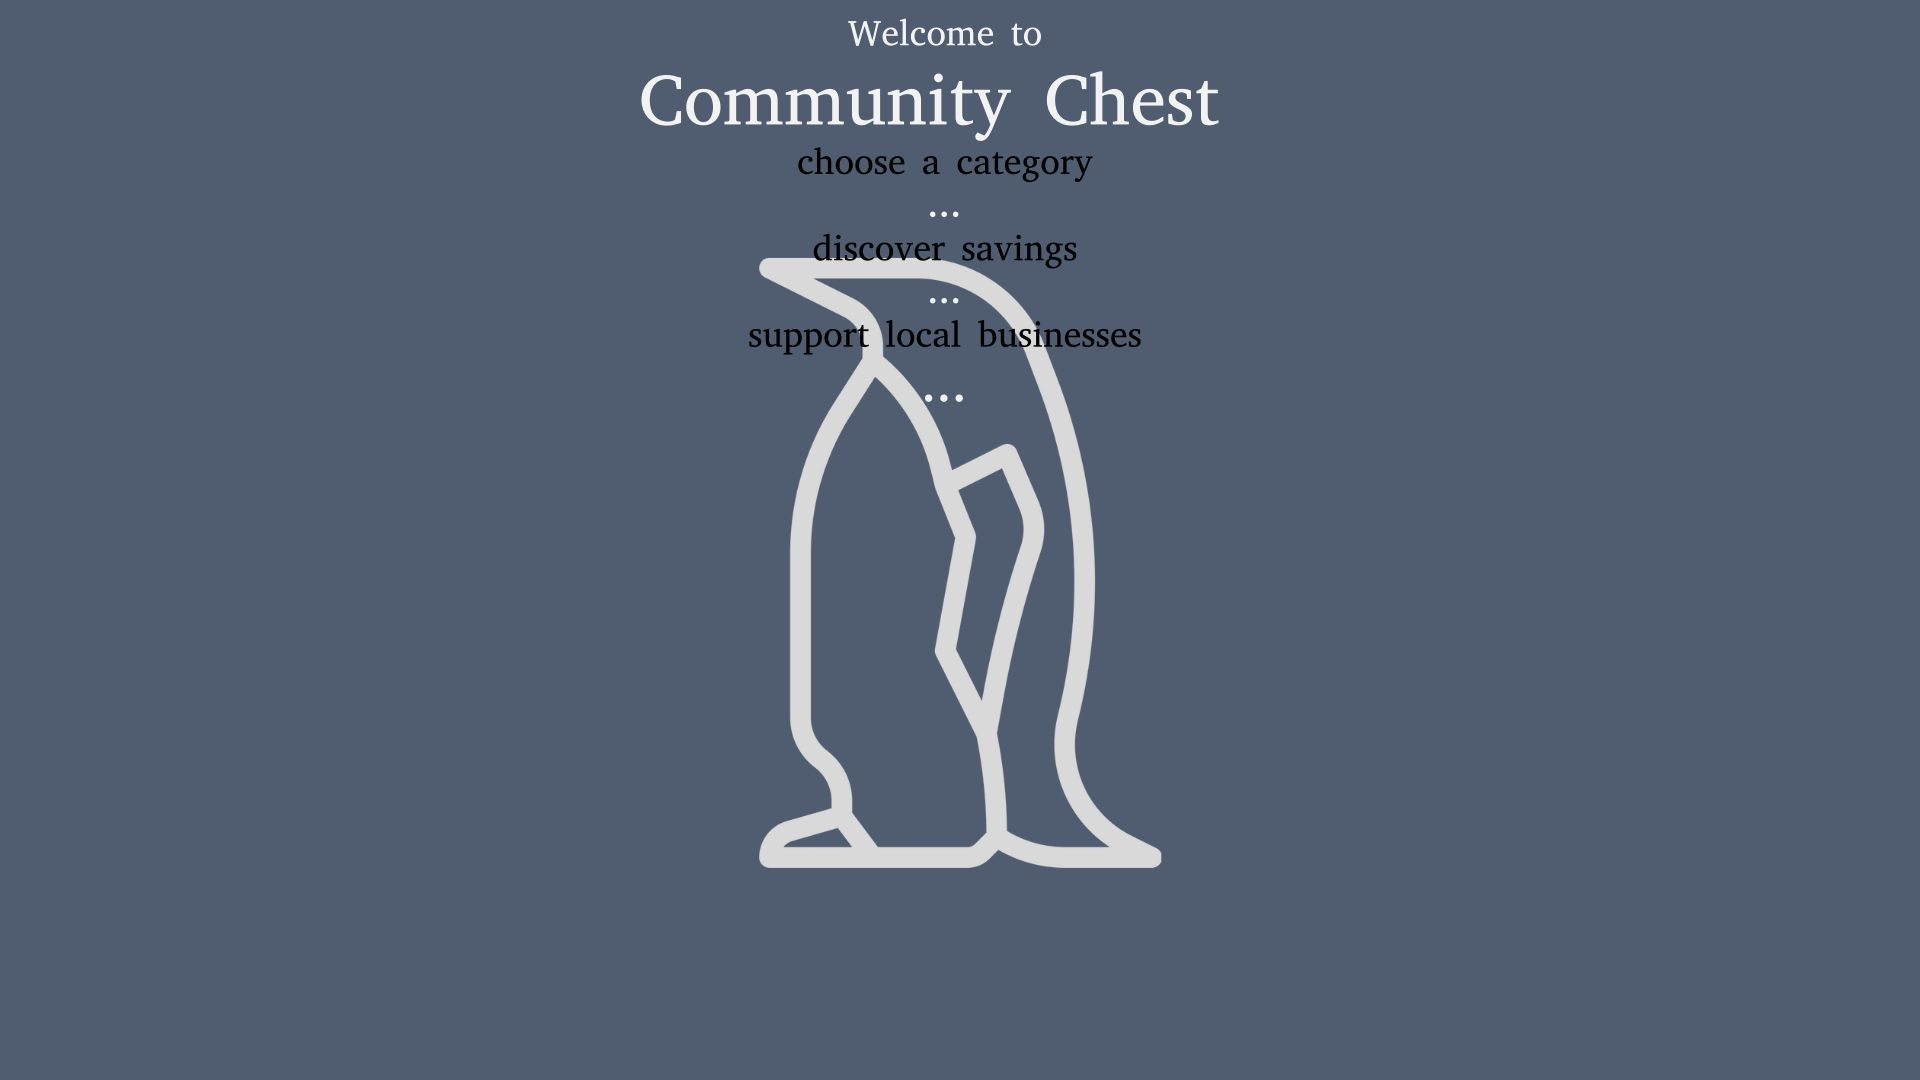
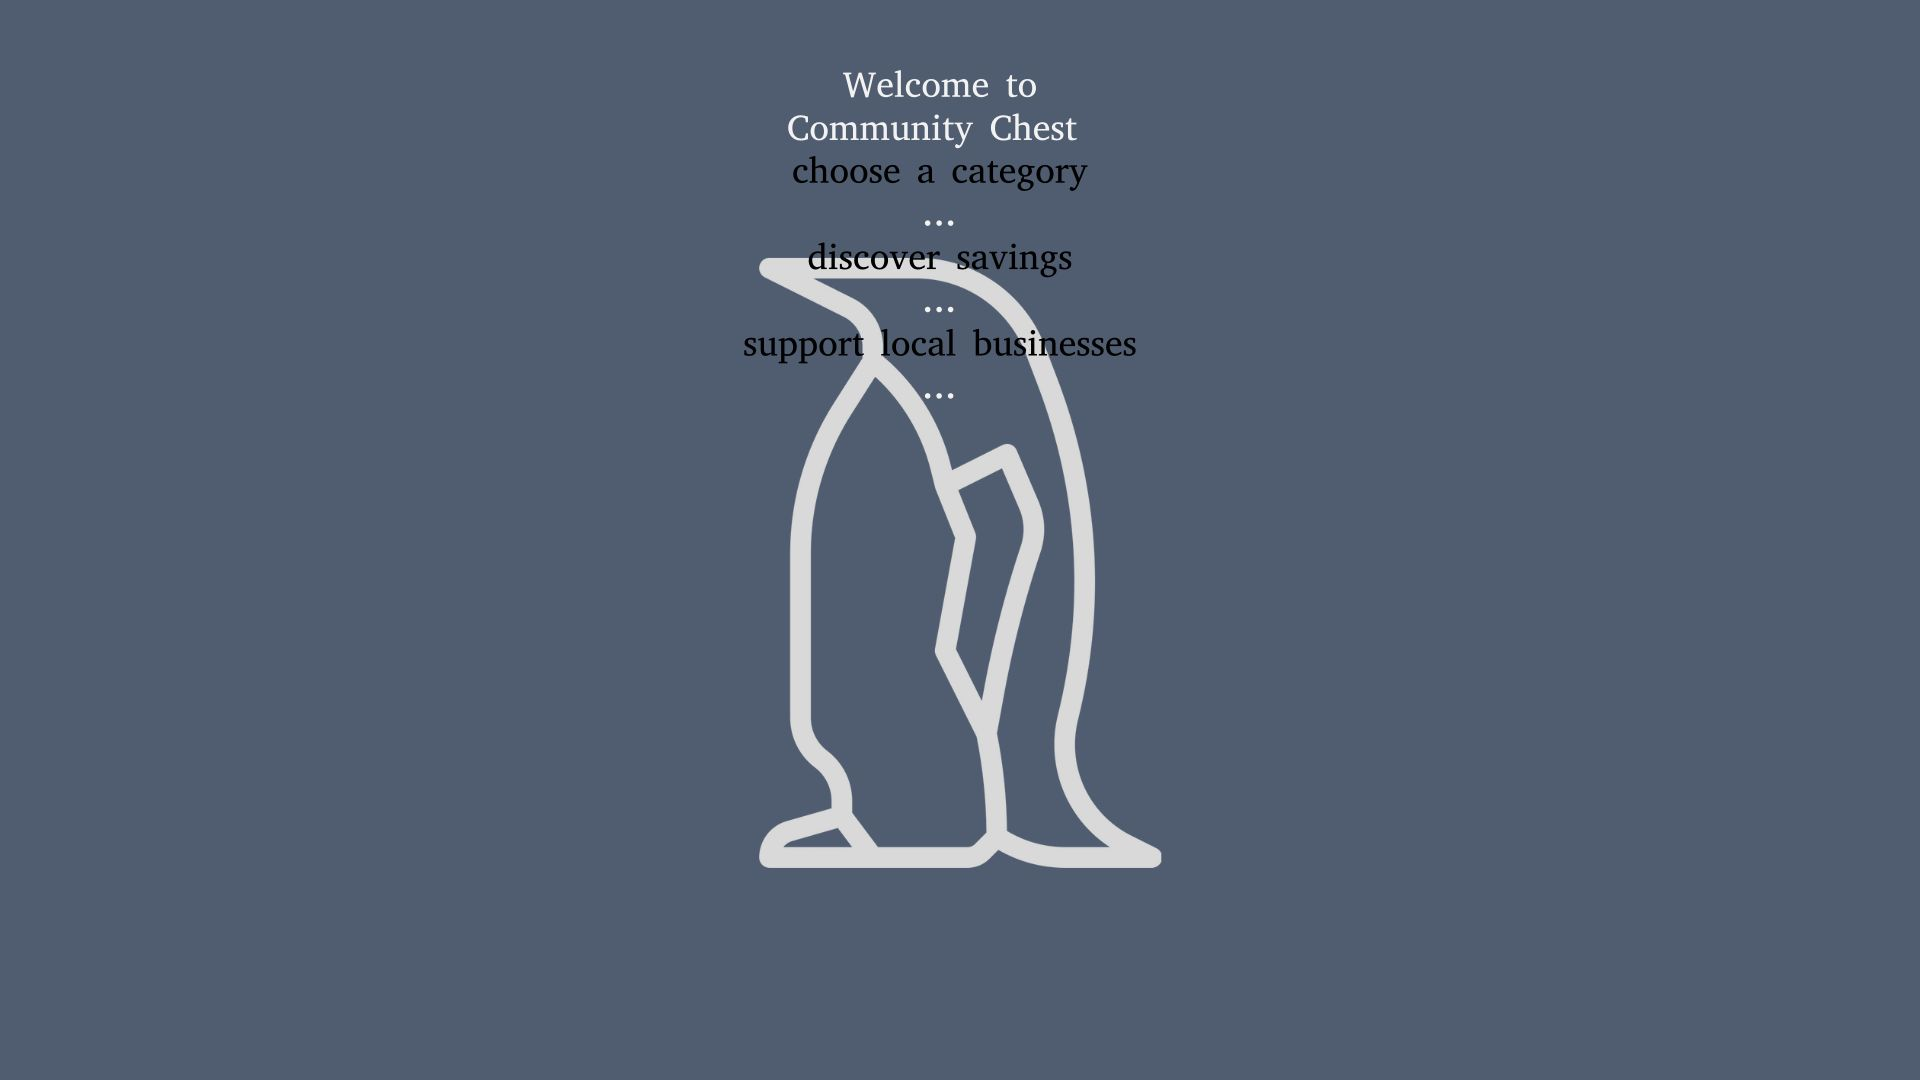
tweaking

Changed region(s): [[0.3125, 0.0, 0.6562, 0.1833], [0.375, 0.275, 0.5938, 0.3361], [0.4062, 0.2139, 0.5625, 0.275]]

diff --git a/communitychestwfw.html b/communitychestwfw.html
@@ -19,9 +19,13 @@
   <body>
 
     <section id="herowfw">
-      <div class="hero-container">
-
-  <div class="img-overlay vstack gap-3">    
+      <div class="hero-container" >
+        
+       <div class="menuimg">
+       </div>
+      </div>
+  <div class="img-overlay vstack gap-3"> 
+       
         <a href="/communitychestfood.html" style="color: rgb(228, 240, 255);" class="btn btn-dark btn-lg active" role="button" aria-pressed="true">Food and Drink</a>
 
         <a href="/communitychestentertainment.html" style="color: rgb(160, 255, 115);" class="btn btn-dark btn-lg active" role="button" aria-pressed="true">Entertainment</a>

diff --git a/assets/css/style.css b/assets/css/style.css
@@ -500,6 +500,10 @@ section {
 /*--------------------------------------------------------------
 # Breadcrumbs
 --------------------------------------------------------------*/
+.menuimg {
+  position: center top;
+}
+
 .breadcrumbs {
   padding: 20px 0;
   background-color: #f4f5f6;
